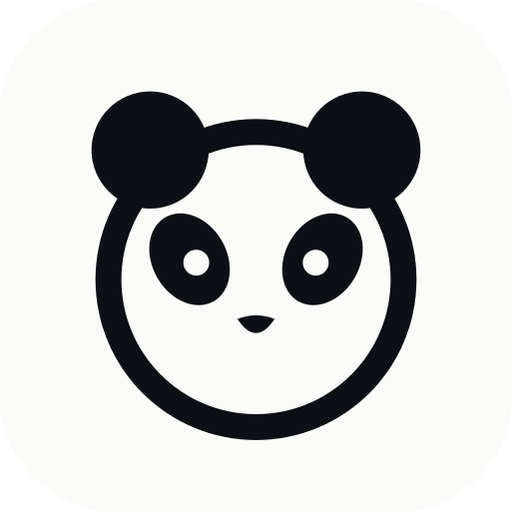
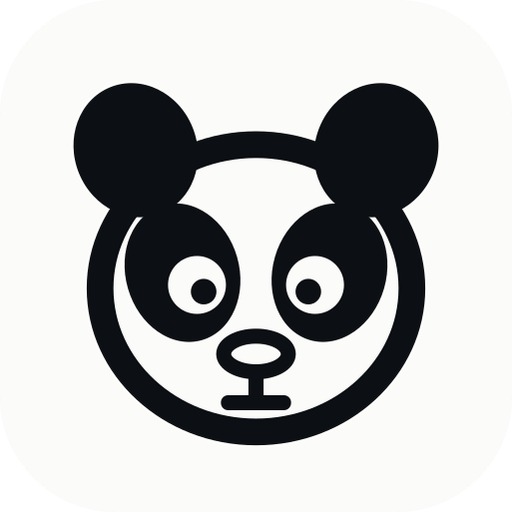
Adopt the owner-supplied panda mark
Redrawn as vector from the reference the site owner generated, rather than
embedded as a raster: it scales from a 16px favicon to the 1200px share card
and inherits currentColor instead of being locked to one palette.

Eye highlights and the hollow nose ring are punched out with a mask, so the
glyph sits correctly on any background.

ASSET_SOURCES.md now records the mark as owner-supplied rather than my own
work, and both docs note that the geometry is duplicated across PandaMark.tsx,
favicon.svg and og-image.svg and has to be changed together.

Changed region(s): [[0.125, 0.1562, 0.875, 0.875]]

diff --git a/src/components/brand/PandaMark.tsx b/src/components/brand/PandaMark.tsx
@@ -9,17 +9,12 @@ type Props = {
 /**
  * Panda brand glyph.
  *
- * Three features do the work of making this read as a panda rather than a
- * generic animal, and all three matter at 16px:
- *   1. ears large and set wide, breaking the head silhouette
- *   2. eye patches tilted inward-down, not upright ovals
- *   3. a nose, closing the eye/nose triangle the eye actually looks for
+ * Redrawn as vector from the supplied reference so it scales cleanly from a
+ * 16px favicon to the 1200px share card, and inherits `currentColor` instead
+ * of being locked to one palette.
  *
- * Still deliberately reductive — no mouth, no cheeks, no cartoon face — so it
- * sits next to a premium residential wordmark without turning juvenile.
- *
- * Renders entirely in `currentColor`; the eye highlights are punched out with
- * a mask so the glyph works on any background, light or dark.
+ * The eye highlights and the nose ring are punched out with a mask rather
+ * than painted white, so the glyph sits correctly on any background.
  */
 export function PandaMark({ className, title }: Props) {
   const maskId = useId()
@@ -34,36 +29,55 @@ export function PandaMark({ className, title }: Props) {
       focusable="false"
     >
       {title ? <title>{title}</title> : null}
+
       <mask id={maskId} maskUnits="userSpaceOnUse" x="0" y="0" width="40" height="40">
         <rect x="0" y="0" width="40" height="40" fill="#fff" />
-        {/* Eye highlights, set toward the nose so the gaze converges. */}
-        <circle cx="14.7" cy="20.4" r="1.15" fill="#000" />
-        <circle cx="25.3" cy="20.4" r="1.15" fill="#000" />
+        {/* Eye whites */}
+        <circle cx="14.7" cy="22.3" r="2.6" fill="#000" />
+        <circle cx="25.3" cy="22.3" r="2.6" fill="#000" />
+        {/* Hollow centre of the nose ring */}
+        <ellipse cx="20" cy="28.5" rx="1.7" ry="0.75" fill="#000" />
       </mask>
 
       <g mask={`url(#${maskId})`} fill="currentColor">
-        {/* Ears — set wide and clearly proud of the head silhouette. */}
-        <circle cx="10.6" cy="10.4" r="5.2" />
-        <circle cx="29.4" cy="10.4" r="5.2" />
+        {/* Ears — large, tilted outward, tucked behind the head. */}
+        <ellipse cx="9.2" cy="10.2" rx="5.5" ry="6.1" transform="rotate(-22 9.2 10.2)" />
+        <ellipse cx="30.8" cy="10.2" rx="5.5" ry="6.1" transform="rotate(22 30.8 10.2)" />
 
-        {/* Head outline. The face itself is the page behind it — a panda is
-            dark markings on a light face, so the glyph paints only markings. */}
-        <circle
+        {/* Head */}
+        <ellipse
           cx="20"
-          cy="21.9"
-          r="13.1"
+          cy="22.6"
+          rx="14"
+          ry="12.9"
           fill="none"
           stroke="currentColor"
-          strokeWidth="2.3"
+          strokeWidth="2.4"
         />
 
-        {/* Eye patches — kept small and pushed outward so they read as
-            markings, not as eyes. The inward tilt is the panda signature. */}
-        <ellipse cx="14.1" cy="20.1" rx="3.3" ry="4.3" transform="rotate(-30 14.1 20.1)" />
-        <ellipse cx="25.9" cy="20.1" rx="3.3" ry="4.3" transform="rotate(30 25.9 20.1)" />
+        {/* Eye patches */}
+        <ellipse cx="13.4" cy="21.2" rx="5.1" ry="6.3" transform="rotate(-16 13.4 21.2)" />
+        <ellipse cx="26.6" cy="21.2" rx="5.1" ry="6.3" transform="rotate(16 26.6 21.2)" />
 
-        {/* Nose — closes the eye/nose triangle the eye looks for. */}
-        <path d="M18.35 25.4 Q20 24.75 21.65 25.4 Q20 27.9 18.35 25.4 Z" />
+        {/* Nose ring — its centre is removed by the mask above. */}
+        <ellipse
+          cx="20"
+          cy="28.5"
+          rx="2.9"
+          ry="1.6"
+          fill="none"
+          stroke="currentColor"
+          strokeWidth="1.35"
+        />
+        {/* Philtrum and mouth */}
+        <rect x="19.32" y="29.5" width="1.36" height="3.3" rx="0.6" />
+        <rect x="16.85" y="32.2" width="6.3" height="1.35" rx="0.65" />
+      </g>
+
+      {/* Pupils sit on top of the punched-out eye whites. */}
+      <g fill="currentColor">
+        <circle cx="15.3" cy="22.9" r="1.15" />
+        <circle cx="24.7" cy="22.9" r="1.15" />
       </g>
     </svg>
   )

diff --git a/ASSET_SOURCES.md b/ASSET_SOURCES.md
@@ -90,18 +90,31 @@ once as `--font-zh` in `src/index.css`.
 
 ---
 
-## 4. Original work (created for this project)
+## 4. Brand mark
+
+The panda glyph is a **vector redraw of a reference supplied by the site
+owner, who generated it themselves**. It is not third-party stock artwork and
+carries no external licence. It was redrawn rather than embedded as a raster
+image so it scales from a 16px favicon to the 1200px share card, and inherits
+`currentColor` instead of being locked to one palette.
+
+The geometry is duplicated in three places and must be kept in sync:
+`src/components/brand/PandaMark.tsx`, `public/favicon.svg` and
+`public/og-image.svg`. After editing any of them, run `npm run og` to
+regenerate the PNG derivatives.
+
+## 5. Other original work (created for this project)
 
 These are original to this repository. There is no third-party licence to
 observe, and they can be replaced freely.
 
 | File | What it is |
 | --- | --- |
-| `public/favicon.svg` | Panda brand glyph, theme-aware (inverts in dark mode) |
+| `public/favicon.svg` | Panda glyph on a light plate |
 | `public/og-image.svg` | Source artwork for the social share card |
 | `public/og-image.png` | 1200×630 share card, generated by `npm run og` |
 | `public/apple-touch-icon.png`, `public/icon-192.png`, `public/icon-512.png` | App icons, generated by `npm run og` |
-| `src/components/brand/PandaMark.tsx` | The panda glyph as a React component |
+| `src/components/brand/PandaMark.tsx` | The panda glyph as a React component (see section 4) |
 | `src/components/brand/Wordmark.tsx` | Brand lockup (glyph + live text) |
 | `src/components/graphics/HomePanel.tsx` | The illustrative control panel in the hero — built from live DOM, not a screenshot of any real product |
 
@@ -110,7 +123,7 @@ Icons throughout the interface come from **[Lucide](https://lucide.dev)**
 
 ---
 
-## 5. Replacing an asset
+## 6. Replacing an asset
 
 1. Drop the new file into the relevant folder under `src/assets/`.
 2. Update the `import` in the component that uses it.

diff --git a/README.md b/README.md
@@ -248,8 +248,10 @@ through components:
 * **Favicon** — `public/favicon.svg` (theme-aware; inverts in dark mode)
 * **Social card** — `public/og-image.svg` → `npm run og`
 
-The favicon and share card are deliberately simple placeholders pending a
-final identity. Replace the three files above together, then run `npm run og`.
+The glyph is a vector redraw of a reference supplied by the site owner. Its
+geometry is duplicated across `PandaMark.tsx`, `favicon.svg` and
+`og-image.svg` — change all three together, then run `npm run og` to
+regenerate the PNG derivatives.
 
 The panda motif is used sparingly — logo, favicon and share card only — and
 never inside page sections.
